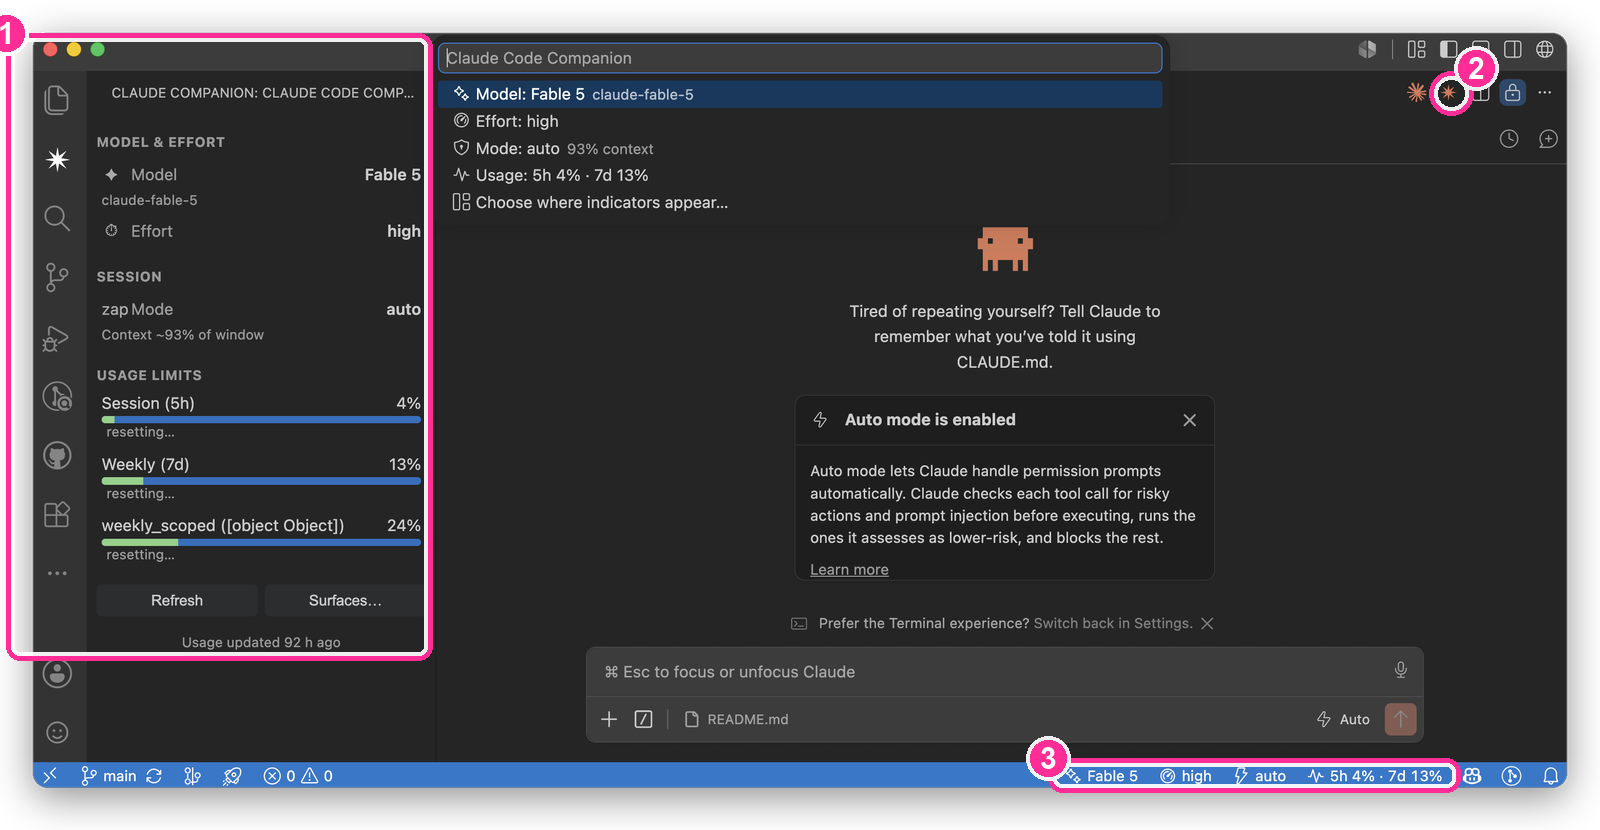
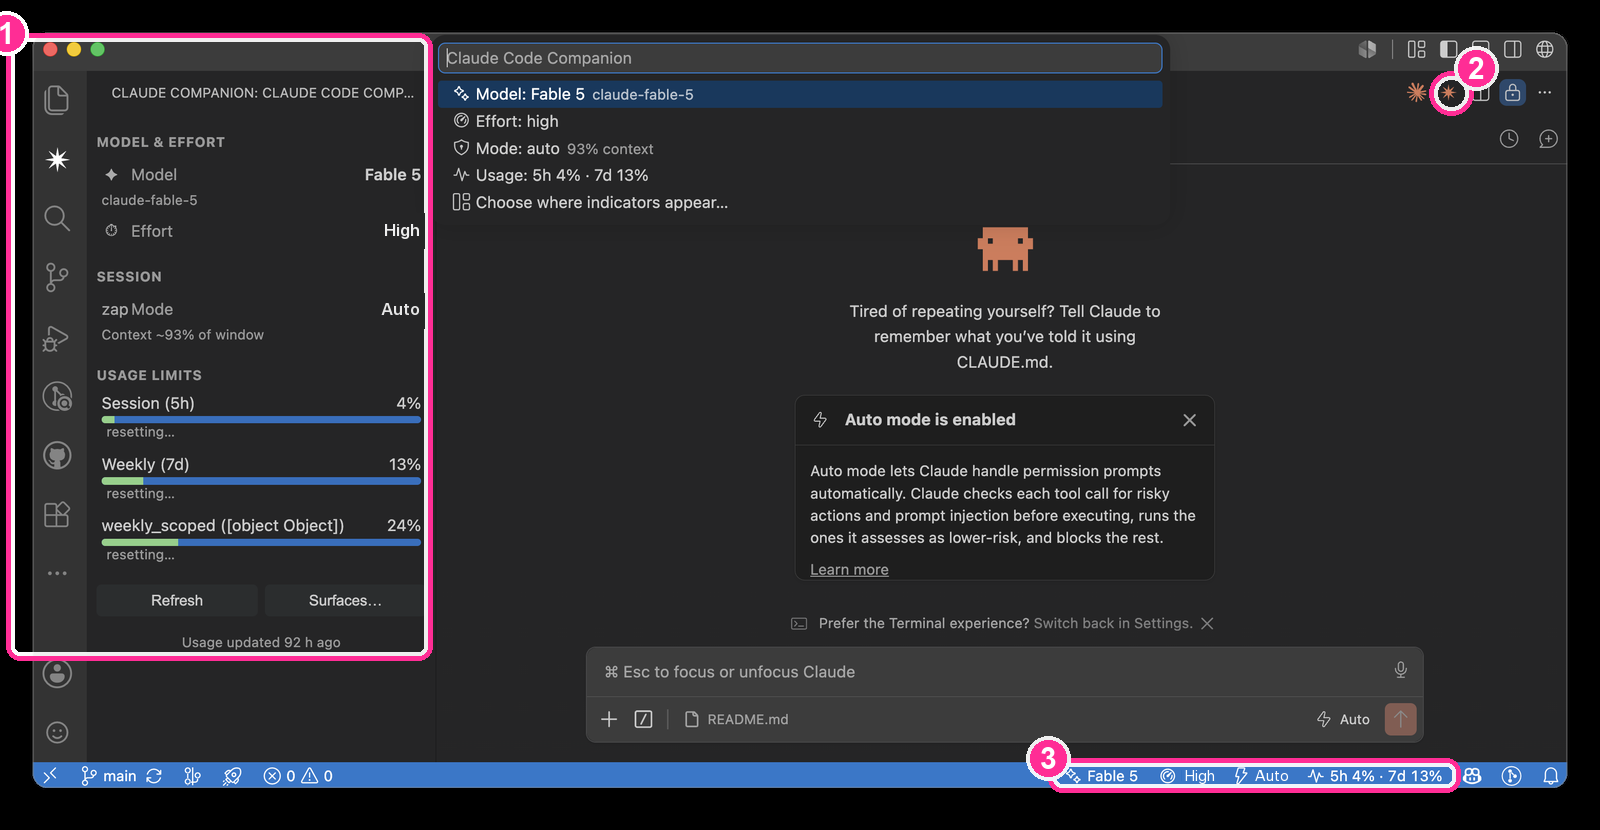
fix: display raw usage-limit scope object and lowercase labels
Claude Code's usage-limit `scope` field is an object (e.g. the model's
display name), not a string, so it was rendering as "[object Object]" in
the sidebar and usage quick pick. Now shows the model name instead, and
usage/effort labels are title-cased in every surface (status bar, sidebar,
quick picks) instead of showing raw snake_case/camelCase identifiers.

Also fixes the README hero screenshots to match: corrected capitalization
and baseline-aligned the status bar text.

Changed region(s): [[0.0, 0.0, 1.0, 1.0], [0.2188, 0.3614, 0.2812, 0.3916], [0.2188, 0.2711, 0.2812, 0.3012]]

diff --git a/claude-code-companion/extension.js b/claude-code-companion/extension.js
@@ -172,6 +172,31 @@ function escapeHtml(s) {
   return String(s).replace(/[&<>"']/g, (c) => ({ "&": "&amp;", "<": "&lt;", ">": "&gt;", '"': "&quot;", "'": "&#39;" }[c]));
 }
 
+function titleCase(s) {
+  return String(s)
+    .replace(/([a-z0-9])([A-Z])/g, "$1 $2") // camelCase -> spaced (e.g. acceptEdits)
+    .replace(/[_-]+/g, " ") // snake/kebab-case -> spaced
+    .trim()
+    .replace(/\b\w/g, (c) => c.toUpperCase());
+}
+
+/** Claude Code's usage-limit `scope` is an object (e.g. `{ model: { display_name }, surface }`),
+ *  not a string — pick the most useful human-readable piece of it, if any. */
+function describeScope(scope) {
+  if (!scope) return null;
+  if (typeof scope === "string") return scope;
+  if (typeof scope === "object") {
+    if (scope.model && scope.model.display_name) return scope.model.display_name;
+    if (scope.surface) return String(scope.surface);
+  }
+  return null;
+}
+
+function limitLabel(kind, scope) {
+  const scopeLabel = describeScope(scope);
+  return scopeLabel ? `${titleCase(kind)} (${scopeLabel})` : titleCase(kind);
+}
+
 const MODE_ICONS = {
   default: "$(shield)",
   auto: "$(zap)",
@@ -286,7 +311,7 @@ function buildSidebarHtml(state) {
     ? `<div class="row" data-command="claudeCompanion.explainMode" tabindex="0" role="button">
          <span class="icon">${MODE_ICONS[mode] ? codiconSpan(MODE_ICONS[mode]) : "🛡"}</span>
          <span class="label">Mode</span>
-         <span class="value">${escapeHtml(mode)}</span>
+         <span class="value">${escapeHtml(titleCase(mode))}</span>
        </div>
        ${contextPct != null ? `<div class="subtle">Context ~${contextPct}% of window</div>` : ""}`
     : `<div class="row disabled"><span class="label">Mode</span><span class="value">no active session</span></div>`;
@@ -303,7 +328,7 @@ function buildSidebarHtml(state) {
 
   const extraLimits = (usageLimits || [])
     .filter((l) => l.kind !== "session" && l.kind !== "weekly_all" && l.percent != null)
-    .map((l) => limitRow(l.scope ? `${l.kind} (${l.scope})` : l.kind, l.percent, l.resets_at))
+    .map((l) => limitRow(limitLabel(l.kind, l.scope), l.percent, l.resets_at))
     .join("");
 
   return `<!doctype html>
@@ -346,7 +371,7 @@ function buildSidebarHtml(state) {
 <div class="row" data-command="claudeCompanion.pickEffort" tabindex="0" role="button">
   <span class="icon">⏱</span>
   <span class="label">Effort</span>
-  <span class="value">${escapeHtml(effort)}</span>
+  <span class="value">${escapeHtml(titleCase(effort))}</span>
 </div>
 
 <h2>Session</h2>
@@ -449,7 +474,7 @@ function activate(context) {
 
     // --- Effort ---
     if (onStatusBar && conf.get("showEffort")) {
-      items.effort.text = `$(dashboard) ${effort}`;
+      items.effort.text = `$(dashboard) ${titleCase(effort)}`;
       items.effort.tooltip = new vscode.MarkdownString(
         `**Effort level**: \`${effort}\`\n\n_Click to change (applies to new sessions)._`
       );
@@ -459,7 +484,7 @@ function activate(context) {
     // --- Mode ---
     if (onStatusBar && conf.get("showMode") && mode) {
       const icon = MODE_ICONS[mode] || "$(shield)";
-      items.mode.text = `${icon} ${mode}`;
+      items.mode.text = `${icon} ${titleCase(mode)}`;
       const md = new vscode.MarkdownString(undefined, true);
       md.appendMarkdown(`**Session permission mode**: \`${mode}\`\n\n`);
       if (contextPct != null) md.appendMarkdown(`Context: ~${kTokens(state.session.contextTokens)} tokens (${contextPct}% of window)\n\n`);
@@ -489,7 +514,7 @@ function activate(context) {
       for (const lim of usageLimits || []) {
         if (lim.kind === "session" || lim.kind === "weekly_all") continue;
         if (lim.percent == null) continue;
-        md.appendMarkdown(`${lim.kind}: \`${bar(lim.percent)}\` ${lim.percent}% — ${untilText(lim.resets_at)}\n\n`);
+        md.appendMarkdown(`${limitLabel(lim.kind, lim.scope)}: \`${bar(lim.percent)}\` ${lim.percent}% — ${untilText(lim.resets_at)}\n\n`);
       }
       if (usageFetchedAt) md.appendMarkdown(`_Updated ${agoText(usageFetchedAt)} by Claude Code._`);
       items.usage.tooltip = md;
@@ -554,7 +579,7 @@ function activate(context) {
       const current = readGlobalSettings().effortLevel;
       const pick = await vscode.window.showQuickPick(
         ["high", "medium", "low"].map((v) => ({
-          label: (v === current ? "$(check) " : "") + v,
+          label: (v === current ? "$(check) " : "") + titleCase(v),
           value: v,
         })),
         { placeHolder: `Effort level for new sessions (current: ${current || "default"})` }
@@ -577,7 +602,7 @@ function activate(context) {
       }
       const u = usage.utilization;
       const lines = (u.limits || []).map(
-        (l) => `${l.kind}${l.scope ? ` (${l.scope})` : ""}: ${l.percent}% — ${untilText(l.resets_at)}`
+        (l) => `${limitLabel(l.kind, l.scope)}: ${l.percent}% — ${untilText(l.resets_at)}`
       );
       vscode.window.showQuickPick(lines, { placeHolder: `Claude usage — updated ${agoText(usage.fetchedAtMs)}` });
     }),
@@ -594,7 +619,7 @@ function activate(context) {
           description: state.modelRaw || "default",
           action: "claudeCompanion.pickModel",
         },
-        { label: `$(dashboard) Effort: ${state.effort}`, action: "claudeCompanion.pickEffort" },
+        { label: `$(dashboard) Effort: ${titleCase(state.effort)}`, action: "claudeCompanion.pickEffort" },
         {
           label: `$(shield) Mode: ${state.mode || "no active session"}`,
           description: state.contextPct != null ? `${state.contextPct}% context` : "",

diff --git a/claude-code-companion/CHANGELOG.md b/claude-code-companion/CHANGELOG.md
@@ -1,5 +1,11 @@
 # Change Log
 
+## 0.2.3
+
+- Fixed a display bug where a usage limit scoped to a specific model showed up as `weekly_scoped ([object Object])` — Claude Code's `scope` field is an object (e.g. the model's display name), not a string. Now shown as `Weekly Scoped (Fable)`.
+- Usage and effort quick-pick labels are now capitalized and no longer show raw snake_case/camelCase identifiers (`session`, `weekly_all`, `high`, `acceptEdits`) — shown as `Session`, `Weekly All`, `High`, `Accept Edits`, etc. This also applies to the effort and mode text in the status bar and sidebar panel, which previously showed the raw lowercase value.
+- Updated the README screenshots to reflect the corrected capitalization.
+
 ## 0.2.2
 
 - Added an annotated screenshot to the README (light and dark) showing the three surfaces — sidebar panel, editor title bar icon, status bar — with numbered markers.
